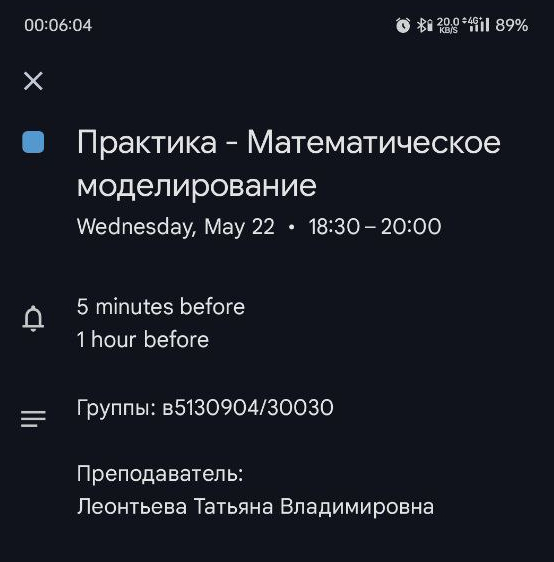
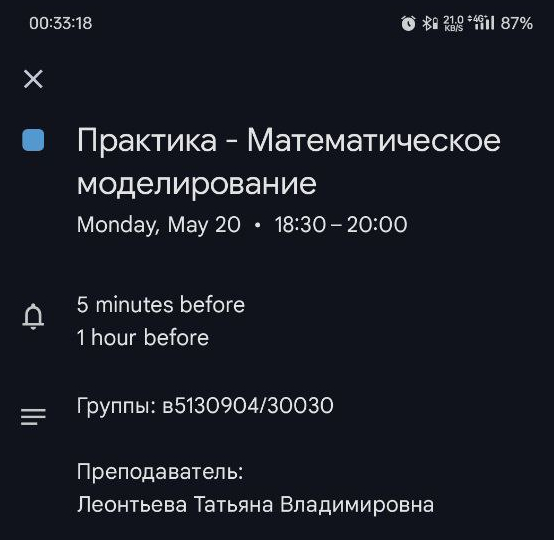
Fix example

diff --git a/README_RU.md b/README_RU.md
@@ -32,7 +32,8 @@
     ./get_schedule.sh [YYYY-MM-DD] [название группы]
     ```
 
-    Переданные аргументы имеют приоритет над значениями, указанными в `.env`.
+    - Переданные аргументы имеют приоритет над значениями, указанными в `.env`.
+    - Первый аргумент должен быть ПЕРВЫМ днём недели.
 
 ## 4. Пример
 
@@ -47,17 +48,17 @@
 2. Выполнить:
 
     ```bash
-    ./get_schedule.sh "2024-05-22" "5130904/30030"
+    ./get_schedule.sh "2024-05-20" "5130904/30030"
     ```
 
     Будет выведено:
 
     ```text
-    JSON successfully saved to "./data/в5130904-30030_2024-05-22.json"!
-    JSON successfully converted to "./data/в5130904-30030_2024-05-22.ics"!
+    JSON successfully saved to "./data/в5130904-30030_2024-05-20.json"!
+    JSON successfully converted to "./data/в5130904-30030_2024-05-20.ics"!
     ```
 
-Прямой ответ от сервера будет сохранён в файл `./data/в5130904-30030_2024-05-22.json`:
+Прямой ответ от сервера будет сохранён в файл `./data/в5130904-30030_2024-05-20.json`:
 
 ```json
 {
@@ -120,11 +121,11 @@
     ]
   ],
   "date_for_rasp": "20.05 - 26.05",
-  "today_date": "2024-05-22"
+  "today_date": "2024-05-20"
 }
 ```
 
-Сгенерированный файл ICS для Google Calendar будет сохранён в `./data/в5130904-30030_2024-05-22.ics`:
+Сгенерированный файл ICS для Google Calendar будет сохранён в `./data/в5130904-30030_2024-05-20.ics`:
 
 ```ics
 BEGIN:VCALENDAR
@@ -132,26 +133,26 @@ VERSION:2.0
 PRODID:-//Your Organization//Your Product//EN
 BEGIN:VEVENT
 SUMMARY:Практика - Математическое моделирование
-DTSTART:20240522T183000
-DTEND:20240522T200000
+DTSTART:20240520T183000
+DTEND:20240520T200000
 DESCRIPTION:Группы: в5130904/30030\n\nПреподаватель:\nЛеонтьева Татьяна Владимировна
 END:VEVENT
 BEGIN:VEVENT
 SUMMARY:Лекции - Языки моделирования и описания цифровой аппаратуры
-DTSTART:20240524T183000
-DTEND:20240524T200000
+DTSTART:20240522T183000
+DTEND:20240522T200000
 DESCRIPTION:Группы: в5130904/30030\n\nПреподаватель:\nАмосов Владимир Владимирович
 END:VEVENT
 BEGIN:VEVENT
 SUMMARY:Практика - Языки моделирования и описания цифровой аппаратуры
-DTSTART:20240524T201500
-DTEND:20240524T214500
+DTSTART:20240522T201500
+DTEND:20240522T214500
 DESCRIPTION:Группы: в5130904/30030\n\nПреподаватель:\nПетров Александр Владимирович
 END:VEVENT
 BEGIN:VEVENT
 SUMMARY:Зачет - Технологии цифровой промышленности
-DTSTART:20240526T183000
-DTEND:20240526T213000
+DTSTART:20240524T183000
+DTEND:20240524T213000
 DESCRIPTION:Группы: в5130904/30030\n\nПреподаватель:\nСалкуцан Сергей Владимирович
 END:VEVENT
 END:VCALENDAR

diff --git a/README.md b/README.md
@@ -32,7 +32,8 @@ This script download schedule from <https://my.spbstu.ru/> and saves it as `.ics
     ./get_schedule.sh [YYYY-MM-DD] [group name]
     ```
 
-    Passed arguments will be prioritized over variables, defined in `.env`.
+    - Passed arguments will be prioritized over variables, defined in `.env`;
+    - First argument must be FIRST day of the week.
 
 ## 4. Example
 
@@ -47,17 +48,17 @@ We need:
 2. Execute:
 
     ```bash
-    ./get_schedule.sh "2024-05-22" "5130904/30030"
+    ./get_schedule.sh "2024-05-20" "5130904/30030"
     ```
 
     It will output:
 
     ```text
-    JSON successfully saved to "./data/в5130904-30030_2024-05-22.json"!
-    JSON successfully converted to "./data/в5130904-30030_2024-05-22.ics"!
+    JSON successfully saved to "./data/в5130904-30030_2024-05-20.json"!
+    JSON successfully converted to "./data/в5130904-30030_2024-05-20.ics"!
     ```
 
-Actual response from server will be saved in `./data/в5130904-30030_2024-05-22.json`:
+Actual response from server will be saved in `./data/в5130904-30030_2024-05-20.json`:
 
 ```json
 {
@@ -120,11 +121,11 @@ Actual response from server will be saved in `./data/в5130904-30030_2024-05-22.
     ]
   ],
   "date_for_rasp": "20.05 - 26.05",
-  "today_date": "2024-05-22"
+  "today_date": "2024-05-20"
 }
 ```
 
-Generated ICS file for Google Calendar will be saved in `./data/в5130904-30030_2024-05-22.ics`:
+Generated ICS file for Google Calendar will be saved in `./data/в5130904-30030_2024-05-20.ics`:
 
 ```ics
 BEGIN:VCALENDAR
@@ -132,26 +133,26 @@ VERSION:2.0
 PRODID:-//Your Organization//Your Product//EN
 BEGIN:VEVENT
 SUMMARY:Практика - Математическое моделирование
-DTSTART:20240522T183000
-DTEND:20240522T200000
+DTSTART:20240520T183000
+DTEND:20240520T200000
 DESCRIPTION:Группы: в5130904/30030\n\nПреподаватель:\nЛеонтьева Татьяна Владимировна
 END:VEVENT
 BEGIN:VEVENT
 SUMMARY:Лекции - Языки моделирования и описания цифровой аппаратуры
-DTSTART:20240524T183000
-DTEND:20240524T200000
+DTSTART:20240522T183000
+DTEND:20240522T200000
 DESCRIPTION:Группы: в5130904/30030\n\nПреподаватель:\nАмосов Владимир Владимирович
 END:VEVENT
 BEGIN:VEVENT
 SUMMARY:Практика - Языки моделирования и описания цифровой аппаратуры
-DTSTART:20240524T201500
-DTEND:20240524T214500
+DTSTART:20240522T201500
+DTEND:20240522T214500
 DESCRIPTION:Группы: в5130904/30030\n\nПреподаватель:\nПетров Александр Владимирович
 END:VEVENT
 BEGIN:VEVENT
 SUMMARY:Зачет - Технологии цифровой промышленности
-DTSTART:20240526T183000
-DTEND:20240526T213000
+DTSTART:20240524T183000
+DTEND:20240524T213000
 DESCRIPTION:Группы: в5130904/30030\n\nПреподаватель:\nСалкуцан Сергей Владимирович
 END:VEVENT
 END:VCALENDAR
